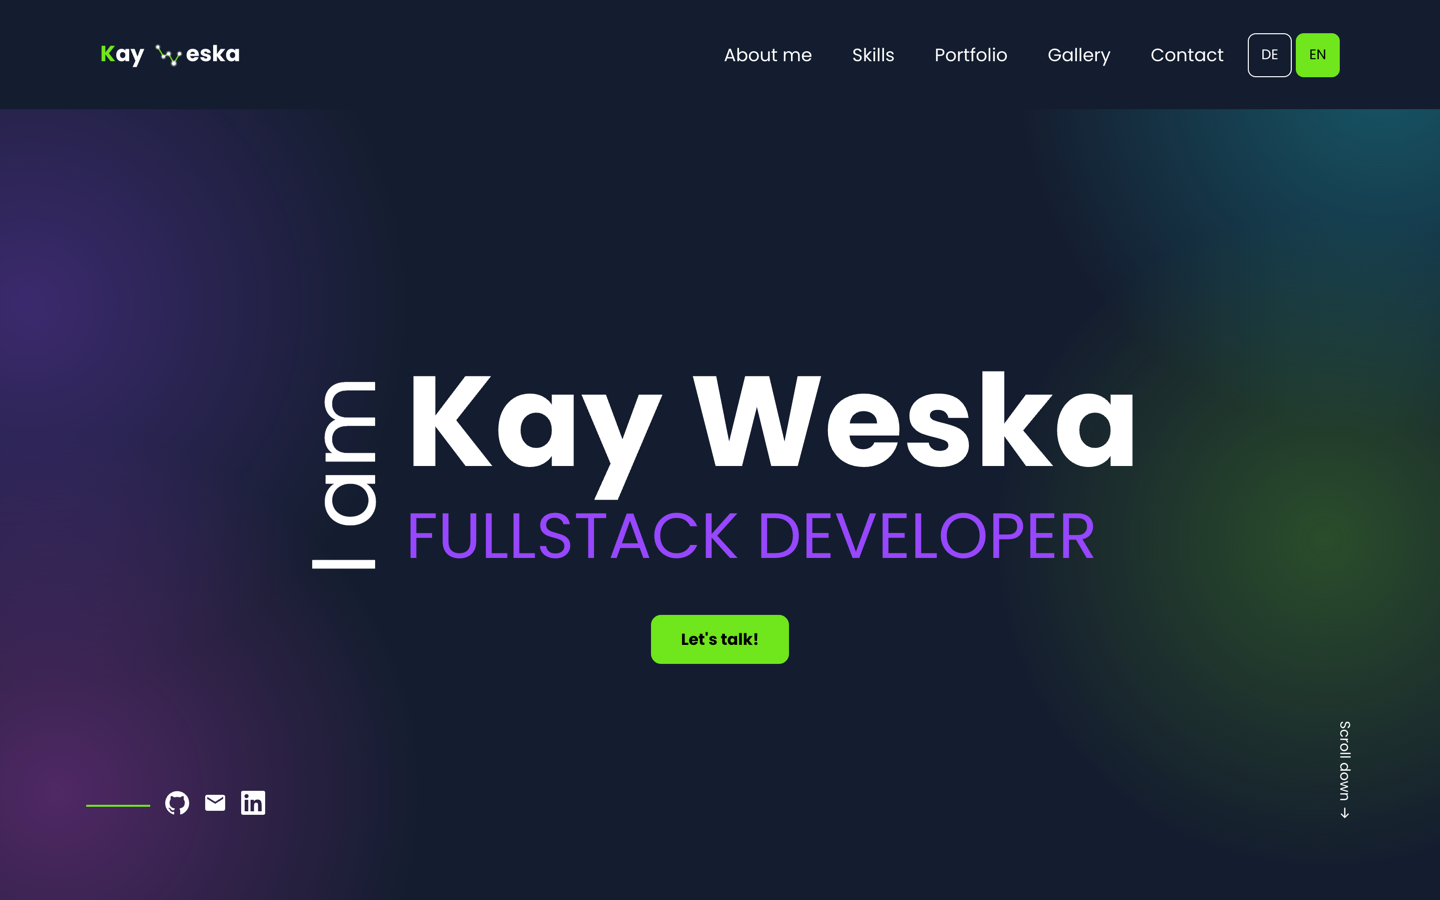
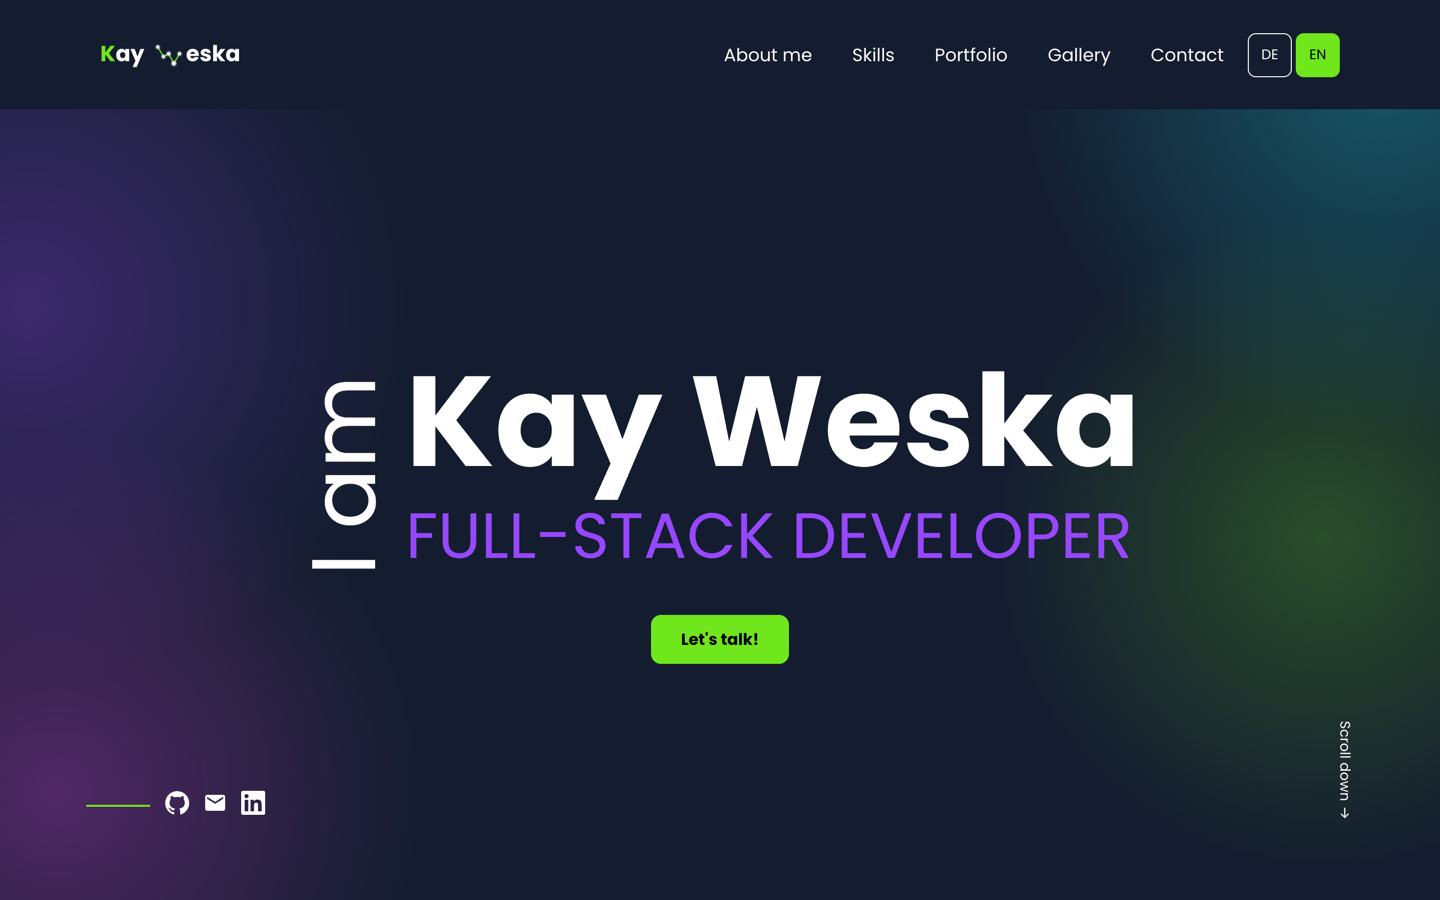
chore(config): turn on strict mode and close the TSDoc gaps
- Enable strict and strictTemplates, the code already compiled clean
- Document the router config, the routes and the two shaders
- Document the scene constants, the dictionary and the project list
- Spell full-stack with a hyphen in the hero, the intro and the README
- Reshoot the English hero screenshot for the README

Changed region(s): [[0.375, 0.56, 0.7812, 0.6222]]

diff --git a/src/app/data/i18n.ts b/src/app/data/i18n.ts
@@ -82,6 +82,7 @@ export interface Dictionary {
   };
 }
 
+/** Every visible string in both languages, keyed by section. */
 export const TRANSLATIONS: Record<Lang, Dictionary> = {
   de: {
     nav: {
@@ -177,7 +178,7 @@ export const TRANSLATIONS: Record<Lang, Dictionary> = {
     },
     hero: {
       iam: 'I am',
-      role: 'FULLSTACK DEVELOPER',
+      role: 'FULL-STACK DEVELOPER',
       cta: "Let's talk!",
       scroll: 'Scroll down',
       altBusiness: 'Kay Weska in a suit',
@@ -185,11 +186,11 @@ export const TRANSLATIONS: Record<Lang, Dictionary> = {
     about: {
       heading: 'About me',
       intro:
-        "I'm Kay, a fullstack developer from Dresden. For over six years I've built software that works together with hardware and the real world: from IoT devices to automated testing systems to customer-facing web apps. I like to see the whole picture, from the sensor to the interface.",
+        "I'm Kay, a full-stack developer from Dresden. For over six years I've built software that works together with hardware and the real world: from IoT devices to automated testing systems to customer-facing web apps. I like to see the whole picture, from the sensor to the interface.",
       location: 'Dresden, open to remote work and new directions.',
       learning: 'Curious about new technologies and always learning.',
       solving: 'Analytical and persistent: I look for the solution that actually works.',
-      team: 'Took ownership in agile teams: organized product and tickets, coordinated the work and made decisions close to the customer.',
+      team: 'Took ownership in agile teams: organized the product backlog and tickets, coordinated the work and made decisions close to the customer.',
     },
     skills: {
       heading: 'Skills',
@@ -213,7 +214,7 @@ export const TRANSLATIONS: Record<Lang, Dictionary> = {
     },
     gallery: {
       heading: 'ON AND OFF THE PITCH',
-      subtitle: 'Sport is my balance. A few moments on and off the pitch.',
+      subtitle: 'Sport keeps me balanced. A few moments on and off the pitch.',
     },
     contact: {
       heading: 'Contact',

diff --git a/src/app/components/intro-loader/intro-scene.ts b/src/app/components/intro-loader/intro-scene.ts
@@ -11,6 +11,7 @@ export interface Star {
   color: string;
 }
 
+/** A soft coloured cloud painted behind the stars. */
 export interface Nebula {
   x: number;
   y: number;
@@ -47,6 +48,7 @@ const LAYERS: Layer[] = [
 const STAR_COLORS = ['#ffffff', '#eaf1ff', '#d7e4ff', '#c6d8ff', '#ffe8cc', '#ffd3a6'];
 const NEBULA_COLORS = ['#4d4356', '#5a4d4a', '#3f4a6a', '#6a4a5a', '#514a63', '#5c5348'];
 
+/** Timing and density limits for the loader animation. */
 export const SCENE = {
   meteorGap: [1300, 2800] as const,
   maxMeteors: 2,

diff --git a/src/app/app.routes.ts b/src/app/app.routes.ts
@@ -3,6 +3,7 @@ import { Home } from './components/home/home';
 import { Impressum } from './components/impressum/impressum';
 import { Datenschutz } from './components/datenschutz/datenschutz';
 
+/** One page plus the two legal pages, unknown paths fall back to the start. */
 export const routes: Routes = [
   { path: '', component: Home },
   { path: 'impressum', component: Impressum },

diff --git a/src/app/components/hero/portrait-hover/portrait-shaders.ts b/src/app/components/hero/portrait-hover/portrait-shaders.ts
@@ -1,3 +1,4 @@
+/** Passes the UV through and draws the plane as a full screen quad. */
 export const VERTEX_SHADER = `
 varying vec2 vUv;
 
@@ -7,6 +8,7 @@ void main() {
 }
 `;
 
+/** Blends the two portraits and tints the result around the pointer. */
 export const FRAGMENT_SHADER = `
 varying vec2 vUv;
 uniform sampler2D uTexA;

diff --git a/src/app/app.config.ts b/src/app/app.config.ts
@@ -4,6 +4,7 @@ import { provideRouter, withInMemoryScrolling } from '@angular/router';
 
 import { routes } from './app.routes';
 
+/** Root providers: fetch based HTTP, the router and anchor scrolling. */
 export const appConfig: ApplicationConfig = {
   providers: [
     provideBrowserGlobalErrorListeners(),

diff --git a/src/environments/environment.example.ts b/src/environments/environment.example.ts
@@ -1,5 +1,7 @@
 // Template: copy to environment.ts and environment.development.ts.
 // Both copies are gitignored.
+
+/** Build flag and the endpoint the contact form posts to. */
 export const environment = {
   production: false,
   contactEndpoint: 'https://weskakay.de/contact_form_mail.php',

diff --git a/src/app/data/projects.ts b/src/app/data/projects.ts
@@ -23,6 +23,7 @@ export interface Project {
   highlight?: Record<Lang, string>;
 }
 
+/** Portfolio entries in the order they appear on the page. */
 export const PROJECTS: readonly Project[] = [
   {
     id: 'poll-app',

diff --git a/README.md b/README.md
@@ -6,7 +6,7 @@
 ![GSAP](https://img.shields.io/badge/GSAP-3.x-88ce02?style=flat-square&logo=greensock)
 ![Three.js](https://img.shields.io/badge/Three.js-r185-000000?style=flat-square&logo=threedotjs)
 
-The personal site of Kay Weska, fullstack and IoT developer. Projects, skills, gallery and contact, in German and English.
+The personal site of Kay Weska, full-stack and IoT developer. Projects, skills, gallery and contact, in German and English.
 
 **Live: [weskakay.de](https://weskakay.de)**
 
